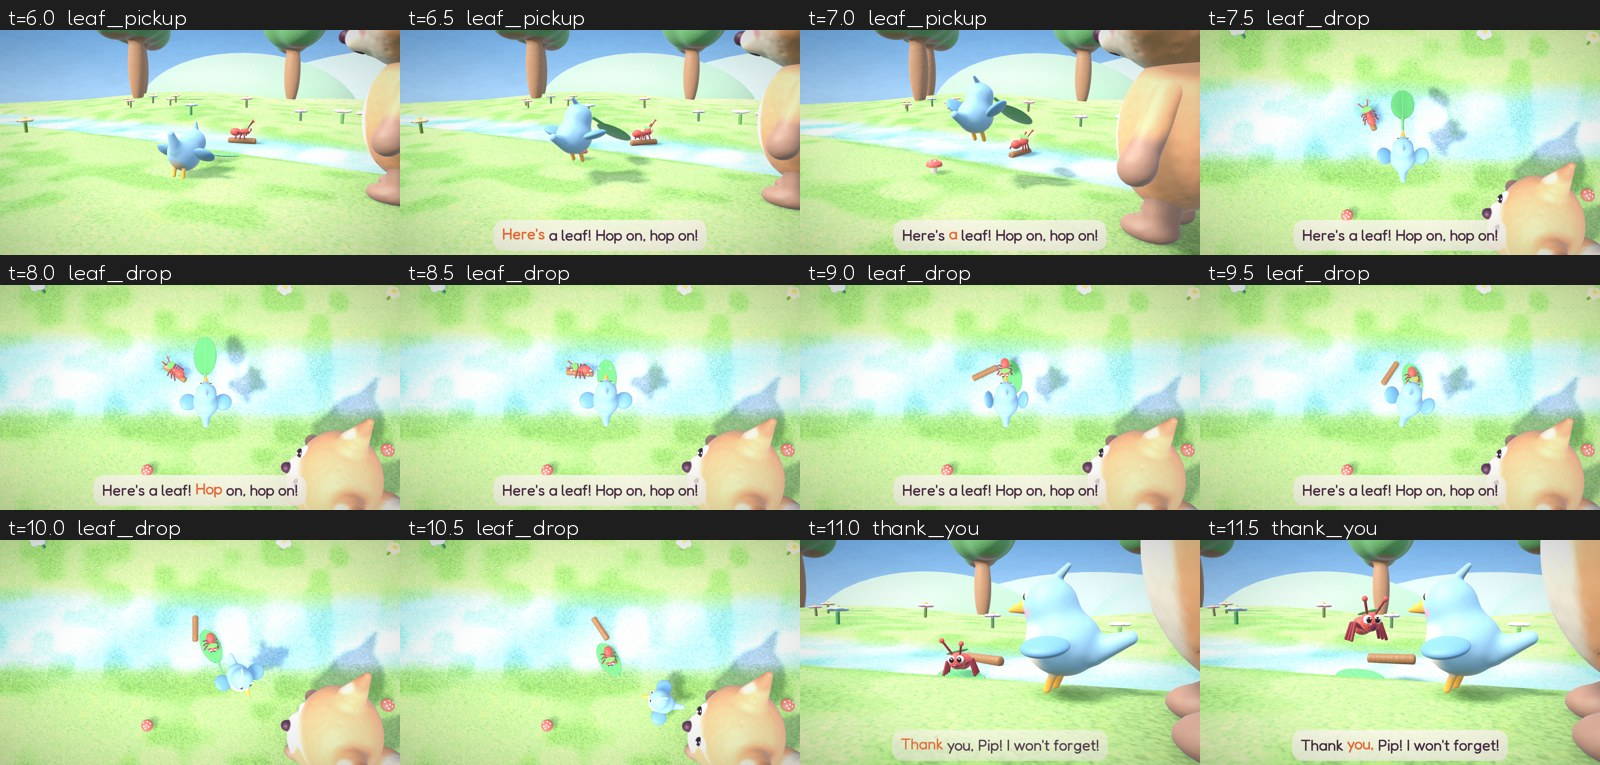
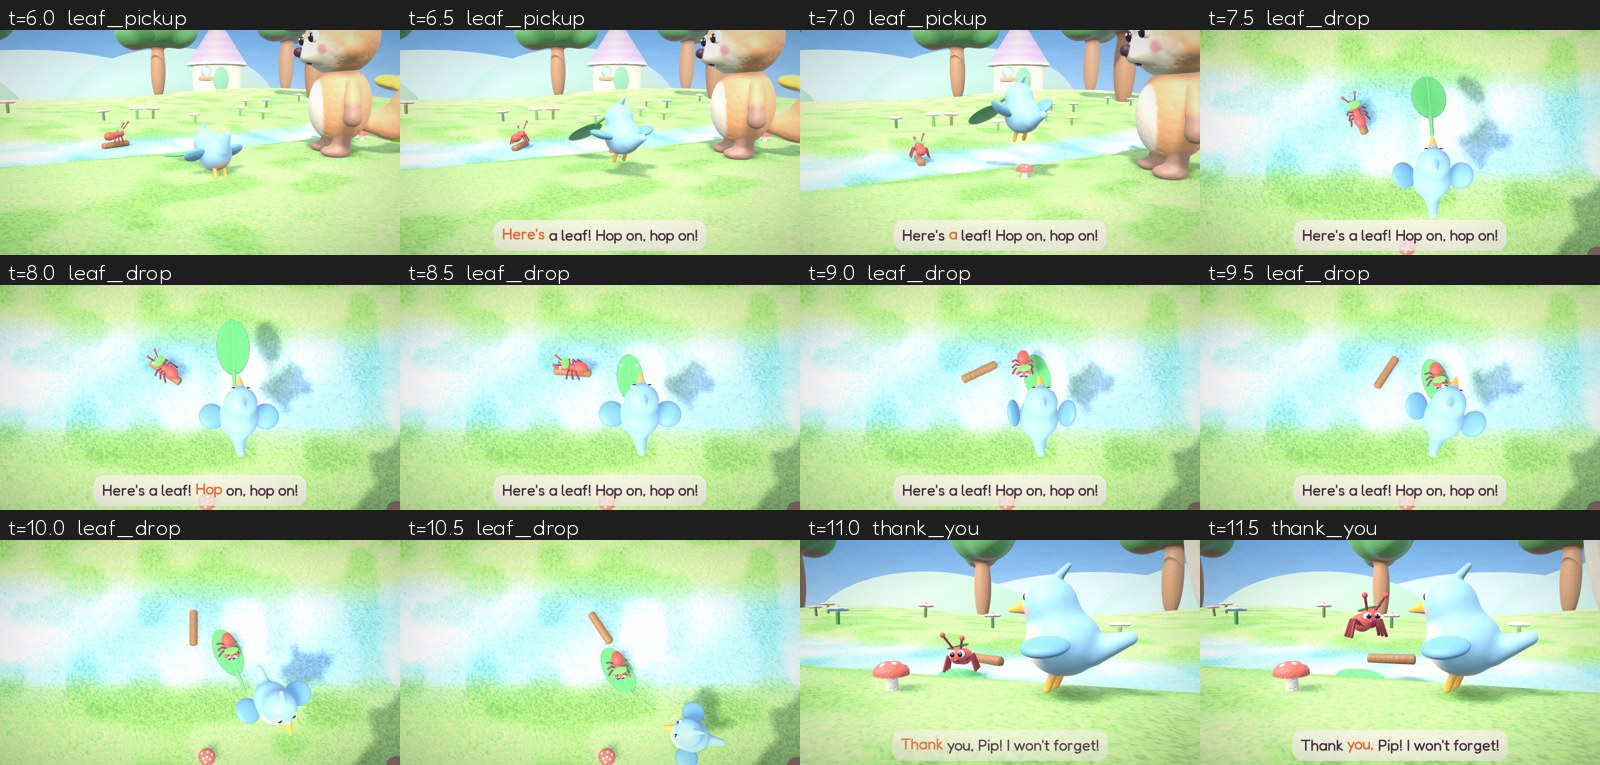
Fable 10: camera and Tumble placement tweaks
Claude-Session: https://claude.ai/code/session_011EeTRBWW5kitD6gAn3QTQD

diff --git a/batches/01-fables-friendship/fable-10-one-good-turn/code/render.py b/batches/01-fables-friendship/fable-10-one-good-turn/code/render.py
@@ -36,7 +36,7 @@ HONEY_TOP = 0.03
 PB = 0.5                                                # the ant line runs from Pip back-left, away from the camera, at this angle
 DIRL = np.array([-math.cos(PB), 0.0, -math.sin(PB)])    # unit vector from Pip towards the line (xz)
 PIP_YAW_STUCK = math.atan2(-DIRL[0], -DIRL[2])          # Pip faces away from the line (towards the camera, a bit right)
-TS = (0.65, -4.4)                                       # Tumble behind the line, facing Pip
+TS = (0.05, -4.5)                                       # Tumble behind the line, facing Pip
 TS_YAW = math.atan2(HP[0] - TS[0], HP[1] - TS[1])
 HONEY = (1.0, 0.7, 0.12)
 FLOWERS = make_flowers([(T0[0], T0[1], 1.0), (TS[0], TS[1], 1.6), (FLOWER[0], FLOWER[1], 1.0), (HPC[0], HPC[1], 0.8),
@@ -468,7 +468,7 @@ def camera(t):
         a = SH[name][0]; tp = lerp(np.array([-0.2, 0.35, -3.3]), np.array([1.3, 0.45, -2.9]), ease(u))
         return fit_cam(tp, lerp(-8, -22, e), 13, 2.1, 1.3)
     if name == "tug":                                       # side-on along the line
-        return fit_cam(np.array([HP[0] - 0.55, 0.4, HP[1] - 0.45]), lerp(-8, -20, e), 8, 1.35, 0.9, lift=0.06)
+        return fit_cam(np.array([HP[0] - 0.55, 0.4, HP[1] - 0.45]), lerp(-8, -20, e), 8, 1.35, 0.9 if not WIDE else 1.6, lift=0.06)
     if name == "pop":                                       # wide side: the pop and the somersault onto his nose
         return fit_cam(np.array([0.75, 1.3, -3.4]), -4, 8, 2.4, 2.2, lift=0.05)
     if name == "moral":
